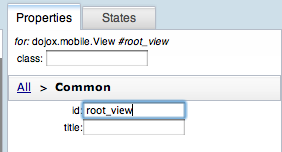
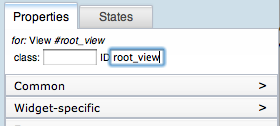
Minor cleanups to tutorials.

Changed region(s): [[0.0, 0.0, 1.0, 1.0], [0.3429, 0.0714, 0.4857, 0.1667], [0.0571, 0.9762, 0.0857, 1.0]]

diff --git a/maqetta.core.client/WebContent/docs/releasenotes/preview4.html b/maqetta.core.client/WebContent/docs/releasenotes/preview4.html
@@ -39,7 +39,11 @@
 <ul style="margin-top: 0pt;" type="disc">
 	<li><p><span class='majortopic'>Mobile theme editor</span> -  
 		The Preview 4 release includes a mobile theme editor feature that
-		allows users to create custom CSS themes. The mobile theme editor allows:</p>
+		allows users to create custom CSS themes.</p>
+		<p>The documentation includes
+		a new <em>mobile theme editor tutorial</em>. You can find the list of tutorials by 
+		invoking the <strong>Help &gt; Tutorials</strong> command from the main menubar.</p>
+		<p>The mobile theme editor allows:</p>
 		<ul>
 			<li><span class='minortopic'>Page-level styling</span> -
 				At the top of the mobile theme editor, there is a "page backgrounds and fonts" section
@@ -99,7 +103,7 @@
 				Preview 4 includes intelligence within the mobile visual page editor for the
 				'fixed' property on the ScrollableView container widget. The 'fixed' property
 				(available on Headings and TabBars)
-				can be set to 'top' (provides a fixed heading on the page or screen) or 'bottom'
+				can be set to 'top' (provides a fixed header on the page or screen) or 'bottom'
 				(provides a fixed footer on the page or screen). Both at authoring time and at runtime
 				in the browser, any fixed Headings or TabBars will stay glued to the top or bottom
 				of the current page view as the rest of the page scrolls.</li>
@@ -109,7 +113,7 @@
 				text strings or arbitrary rich HTML content. This new flexibility allows
 				ListItem content to contain multi-line text, styled text (e.g., bold, italic)
 				and &lt;img&gt; elements (e.g., to reference a small icon image or even SVG vector graphics).
-				To include arbitrary HTML content within a ListItem, simply type markup (e.g., &lt;i&gt;italic text&lt;/i&gt;)into the 
+				To include arbitrary HTML content within a ListItem, simply type markup (e.g., &lt;i&gt;italic text&lt;/i&gt;) into the 
 				data entry popup that appears when double-clicking on a mobile list widget.
 				This will cause 2 radio buttons to appear where you can tell Maqetta whether
 				to treat the content as plain text or rich HTML markup.</li>
@@ -128,10 +132,8 @@
 		The Preview 4 release includes major enhancements and countless minor bug fixes in the general area
 		of "quick UI sketching" where users can place widgets, raster graphics and vector graphics
 		onto the page canvas at absolute positions, similar to how simple drawing and illustration software works. 
-		This mode allows users to quickly sketch out UI proposals
-		without having to go up learning curves or battle through the layout complexities when sketching
-		out the UI of a production application. </p>
-		<p>In this mode, Maqetta provides similar drawing tool
+		This mode allows users to quickly sketch out UI proposals, avoiding some of the layout complexities with CSS flow layout. </p>
+		<p>In this mode, Maqetta provides simple drawing tool
 		functionality. Sketching can be done either using a <span class='minortopic'>high fidelity</span> CSS theme ("high fidelity" means
 		the exact same visual styling that you would have in your final production application) or
 		a <span class='minortopic'>low fidelity</span> CSS theme ("low fidelity" means the widgets are rendered with a pseudo hand-drawn
@@ -182,7 +184,7 @@
 				using absolute positioning (which is what you get when opening a New HTML File
 				with either Desktop hi-fi sketch of Desktop lo-fi sketch).
 				Previously, these widgets would default to 100% for both flow and absolute layout.
-				Now, these widgets default to 100% for flow and roughly 300px for absolute.</li>
+				Now, these widgets default to 100% only in particular flow layout scenarois and default to (roughly) 300px for absolute layouts.</li>
 			<li><span class='minortopic'>Drag out widget size at widget creation time</span> -
 				Preview 4 now allows you to click a widget in the Widgets palette
 				and then drag out a rectangle on the canvas for the initial size and position (when using absolute layout)
@@ -227,7 +229,7 @@
 				<ul>
 					<li><span class='minortopic'>Desktop hi-fi page</span> -
 						This is when you are defining the detailed UI for a desktop web application
-						and/or quick sketching of a piece of user interface (e.g., a dialog).
+						and/or detailed UI for a piece of user interface (e.g., a dialog).
 						The new HTML page will be for desktop browsers (i.e., no mobile device silhouette),
 						using a high-fidelity CSS theme suitable for final product delivery such as claro,
 						and will open using flow layout.
@@ -244,7 +246,7 @@
 					<li><span class='minortopic'>Desktop lo-fi page</span> -
 						Same as "Desktop hi-fi page" except the page will be initialized using
 						the "sketch" theme which provides a pseudo hand-drawn look and feel where
-						most widgets are rendering in black-and-white with thick strokes on the widget outlines.
+						most widgets are rendered in black-and-white with thick strokes on the widget outlines.
 						Low fidelity mode is sometimes useful in early wireframing scenarios.</li>
 					<li><span class='minortopic'>Desktop lo-fi sketch</span> -
 						Same as "Desktop hi-fi sketch" (i.e., suitable for quick UI sketching) 

diff --git a/maqetta.core.client/WebContent/docs/tutorials/Mobile_User_Interfaces.html b/maqetta.core.client/WebContent/docs/tutorials/Mobile_User_Interfaces.html
@@ -37,7 +37,7 @@
 	In the New HTML File dialog, set the Composition type to "iphone" using the drop-down menu. 
 	You can either accept the default filename
 	(e.g., <code>file1.html</code>) or enter a custom filename. Click on the Create button.</li>
-<li>The page canvas should now show a near life-size silhouette of an iPhone.
+<li>The page canvas should now show a life-size silhouette of an iPhone.
 	<p><a href="img/iphone_silhouette.png" target="_blank"><img alt="image" src="img/iphone_silhouette.png" style="margin: 1em 1em 0pt 0pt;" height="400" /></a></p>	
 	</li>
 <li>Notice the Choose Device icon
@@ -175,8 +175,8 @@
 	</li>
 <li>In order to allow easy authoring of multiple screens, 
 	the Dojox Mobile widget uses the '<code>id</code>' attribute to put a referenceable name
-	on widgets. To put a name on this View widget, go to the Properties palette.
-	Open up the "Common" section. Type "root_view" as the value for the 
+	on widgets. To put a name on this View widget, go to the top of the Properties palette.
+	Type "root_view" as the value for the 
 	'<code>id</code>' attribute and then hit Return to complete the operation.
 	The top of the Properties palette should now show <code>for: dojox.mobile.View #root_view</code>:
 	<p><a href="img/Mobile_ID_root_view.png" target="_blank"><img alt="image" src="img/Mobile_ID_root_view.png" style="margin: 1em 1em 0pt 0pt;" height="100" /></a></p>	
@@ -223,7 +223,7 @@
 			is selected or made visible, the other View widget becomes invisible.
 			For the following steps, make sure the second View is visible.
 	</li>
-<li>With the second View widget selected, go to the Common section of the Properties palette 
+<li>With the second View widget selected, go to the top of the Properties palette 
 	and type "alerts_view" as the value for the 
 	'<code>id</code>' attribute and then hit Return to complete the operation.
 	The top of the Properties palette should now show <code>for: dojox.mobile.View #alerts_view</code>
@@ -243,7 +243,7 @@
 </p>
 
 <ul>
-<li>Select the first View so that the "My Mobile App" heading is visible on the page canvs.</li>
+<li>Select the first View so that the "My Mobile App" heading is visible on the page canvas.</li>
 <li>Drag/drop a RoundRectList widget into the middle of the View.
 	A data entry popup widget should appear, showing two lines that say "Item 1" and "Item 2".
 	Replace the data with the following three lines:
@@ -253,12 +253,7 @@ News</pre>
 	The result should look like this:
 	<p><a href="img/Mobile_Root_View_RectList.png" target="_blank"><img alt="image" src="img/Mobile_Root_View_RectList.png" style="margin: 1em 1em 0pt 0pt;" height="175" /></a></p>
 	<div class="note">
-		Note: You can edit the list of items either by
-		selecting the RoundRectList widget (probably in the Outline palette)
-		and then double-clicking on the selection chrome around the RoundRectList widget,
-		or click-selecting the individual ListItem widgets inside of the RoundRectList,
-		or adding additional ListItem widgets by dragging/dropping one or more
-		ListItem widgets from the Widgets palette and dropping onto the RoundRectList widget.
+		Note: You can edit the list of items either by double-clicking on the RoundRectList widget.
 	</div>
 	</li>
 <li>Select the first list item ("Alerts").
@@ -318,7 +313,7 @@ News</pre>
 	After hitting Return, a button labeled "Home" should appear on the left side of the Heading:
 	<p><a href="img/Mobile_MoveTo_Root_Arrow.png" target="_blank"><img alt="image" src="img/Mobile_MoveTo_Root_Arrow.png" style="margin: 1em 1em 0pt 0pt;" height="100" /></a></p>
 	</li>
-<li>Use the Outline palette to make the first View visible so that you
+<li>Use the Outline palette to make the first View visible. Click on the View with 'id' of <code>root_view</code> so that you will now
 	see the "My Mobile App" heading on the top of the page canvas.
 	<p><a href="img/Mobile_first_view_visible.png" target="_blank"><img alt="image" src="img/Mobile_first_view_visible.png" style="margin: 1em 1em 0pt 0pt;" height="100" /></a></p>
 	</li>

diff --git a/maqetta.core.client/WebContent/docs/tutorials/Mobile_Theme_Editor.html b/maqetta.core.client/WebContent/docs/tutorials/Mobile_Theme_Editor.html
@@ -94,8 +94,8 @@ in multiple ways (described in subsequent sections). Below is a snapshot of the 
 	<li><strong>Global Styling</strong> - visual styling that applies globally across multiple widgets. There are 3 sub-sections:
 		<ul>
 			<li><strong>Page backgrounds and fonts</strong> - This control allows you to change page backgrounds and the default font properties used globally across your mobile user interfaces.</li>
-			<li><strong>Heading backgrounds and fonts</strong> - This control allows you to backgrounds and font properties that apply globally across all widgets that share visual styling with the Heading widget (i.e., TabBar and EdgeToEdgeList).</li>
-			<li><strong>Buttons backgrounds and fonts</strong> - This control allows you to backgrounds and font properties that apply globally across all widgets that share visual styling with the Button widget (e.g., ToolbarButton, CheckBox, RadioButton and others).</li>
+			<li><strong>Heading backgrounds and fonts</strong> - This control allows you to change backgrounds and font properties that apply globally across all widgets that share visual styling with the Heading widget (i.e., TabBar and EdgeToEdgeList).</li>
+			<li><strong>Buttons backgrounds and fonts</strong> - This control allows you to change backgrounds and font properties that apply globally across all widgets that share visual styling with the Button widget (e.g., ToolbarButton, CheckBox, RadioButton and others).</li>
 		</ul>
 	</li>
 	<li><strong>Widget Styling</strong> - visual styling that applies to specific widgets. There are 3 tabs, each of which shows a collection of widgets:
@@ -232,8 +232,8 @@ Select a light purple color from the color picker and then click OK.
 <ul>
 	<li>View</li>
 	<li>Heading</li>
-	<li>EdgeToEdgeCategory</li>
 	<li>EdgeToEdgeList</li>
+	<li>Button</li>
 </ul>
 <p class='note'>The widgets should be styled using the purple-colored styling from "mymobiletheme".</p>
 p><a href="img/MobileTEResult.png" target="_blank"><img alt="image" src="img/MobileTEResult.png" style="margin: 1em 1em 0pt 0pt;" width="250" /></a></p>

diff --git a/maqetta.core.client/WebContent/docs/tutorials/Export_to_Developer_Tools.html b/maqetta.core.client/WebContent/docs/tutorials/Export_to_Developer_Tools.html
@@ -110,7 +110,7 @@ shows the default workspace:
 	</ul>
 </li>
 <li>All CSS themes used by Maqetta are in the <code>themes/</code> folder. Maqetta includes
-	two themes by default in each workspace, both of which are <em>read-only</em>:
+	seven themes by default in each workspace, all of which are <em>read-only</em>. Maqetta includes two desktop themes:
 	<ul>
 		<li>The <code>claro/</code> theme is the default theme used by the Dijit widget library in the Dojo toolkit.
 		</li>
@@ -119,11 +119,20 @@ shows the default workspace:
 			of UI so that reviewers will focus on the flow of the UI rather than focus on
 			visual aspects such as fonts and colors. 
 		</li>
-		<li>Any custom themes created with the "New theme..." command (found on the New menu at the top of the application)
+	</ul>
+	and five mobile themes:
+	<ul>
+		<li>The <code>android/</code> theme provides styling that matches the native look-and-feel of Android devices.</li>
+		<li>The <code>blackberry/</code> theme provides styling that matches the native look-and-feel of Blackberry devices.</li>
+		<li>The <code>ipad/</code> theme provides styling that matches the native look-and-feel of the iPad.</li>
+		<li>The <code>iphone/</code> theme provides styling that matches the native look-and-feel of the iPhone.</li>
+		<li>The <code>custom/</code> theme is a generic, cross-platform theme that is designed for custom theme development
+			for development teams that prefer highly customized visual styling instead of attempting to exactly match native device styling.</li>
+	</ul>
+	<li>Any custom themes created with the "New theme..." command (found on the New menu at the top of the application)
 			will be added to the <code>themes/</code> folder. For example, if you create a new theme called "mytheme1":
 			then the Files palette would show a <code>mytheme1</code> subfolder under <code>themes/</code>:
-		</li>
-	</ul>
+	</li>
 </li>
 <li><p>Maqetta automatically includes a reference to an application CSS file (i.e., <code>app.css</code>) with each new HTML
 	file created by a New HTML File command.</p>

diff --git a/maqetta.core.client/WebContent/docs/tutorials/Introducing_the_Page_Editor.html b/maqetta.core.client/WebContent/docs/tutorials/Introducing_the_Page_Editor.html
@@ -401,7 +401,8 @@ affect how some CSS properties are inherited, and therefore might affect the vis
 <li>Click on the <b>Save as</b> <img class="inline" src="img/Maqetta-toolbar-saveas.png" /> icon on the page editor toolbar.</li>
 <li>A dialog window will pop up with the directory list from your user workspace folder (which is also displayed in the Files palette).</li>
 <li><b>File name:</b> - enter a new file name or select an existing file from the list (using an existng filename will overwrite the existing file).</li>
-<li><b>Parent folder:</b> - select any folder from the list (the root user workspace folder is indicated by a "."). 
+<li><b>Where:</b> - the current folder into which the file can be saved. To the right of the Where dropdown menu is a right-pointing arrow that, when clicked,
+	shows a list of files in your workspace where you can select any folder from the workspace or create a New Folder. 
 <i>Do not use the <b>themes</b> folder since this is reserved for Maqetta theme files.</i></li>
 <li>The file will be saved with the new file name, and will also remain open on the canvas with the new file name.</li>
 </ol>

diff --git a/maqetta.core.client/WebContent/docs/install.html b/maqetta.core.client/WebContent/docs/install.html
@@ -134,7 +134,7 @@ Refer to the detailed notes immediately below about how to change the Maqetta la
 
 <p><b><i>Detailed notes about the Maqetta server </i></b></p>
 
-<ul><li>On the Mac, you can launch the Maqetta server from the Dock by dragging the <code>maqetta.local.mac.command</code> onto the right part of the doc.</li>
+<ul><li>On the Mac, you can launch the Maqetta server from the Dock by dragging the <code>maqetta.local.mac.command</code> onto the right part of the dock.</li>
 <li>The launch scripts (<b>maqetta.local.win.bat</b> and <b>maqetta.local.mac.command</b>) have some default parameters:
 <ul>
 <li><b>HTTP port number</b> - The scripts default to port 50000. If you prefer to use 8080 or some other port number, 
